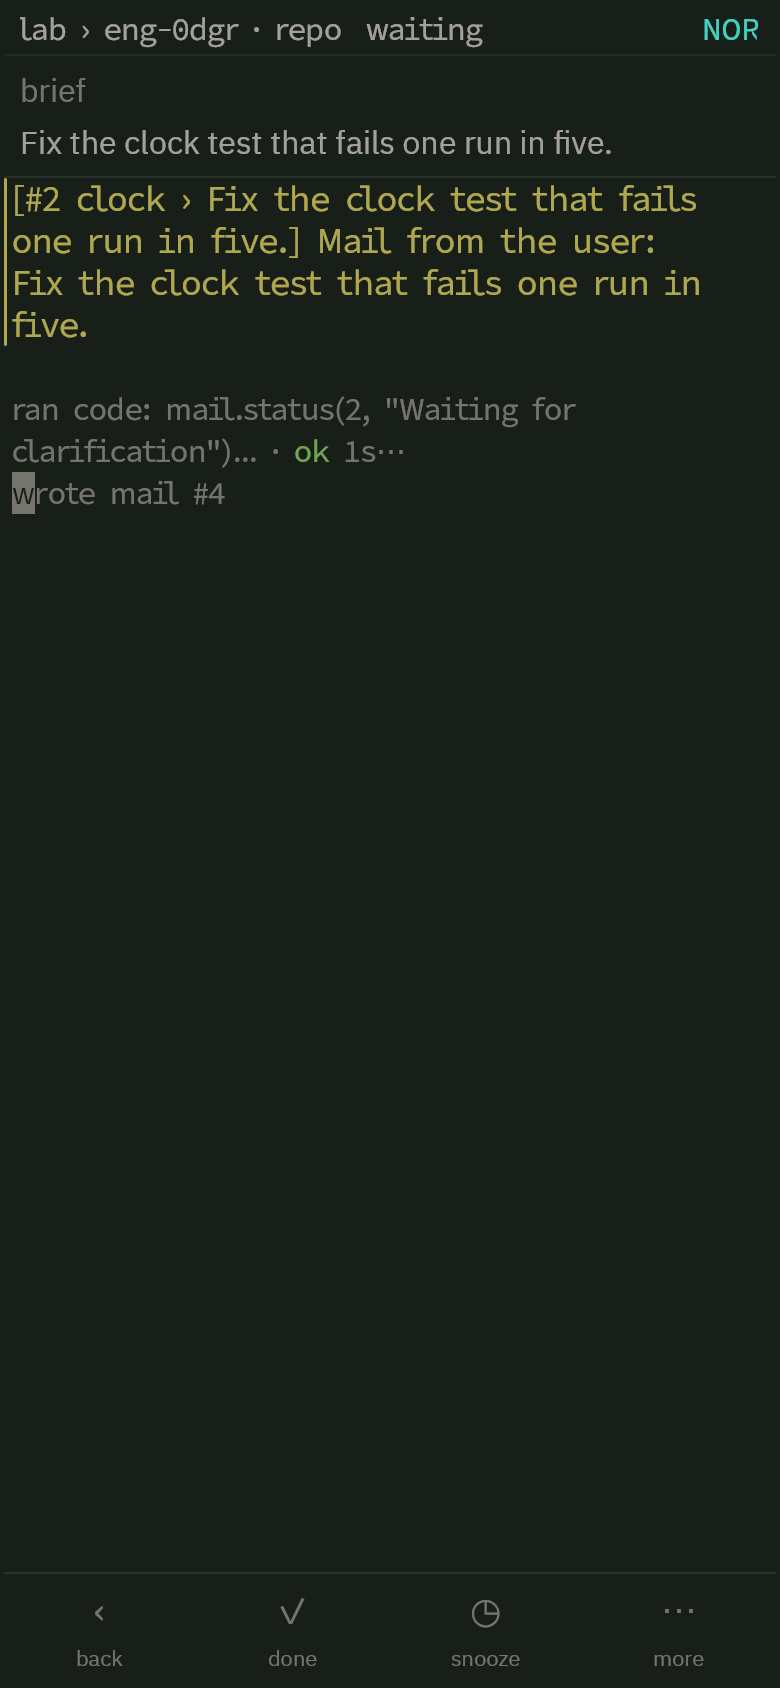
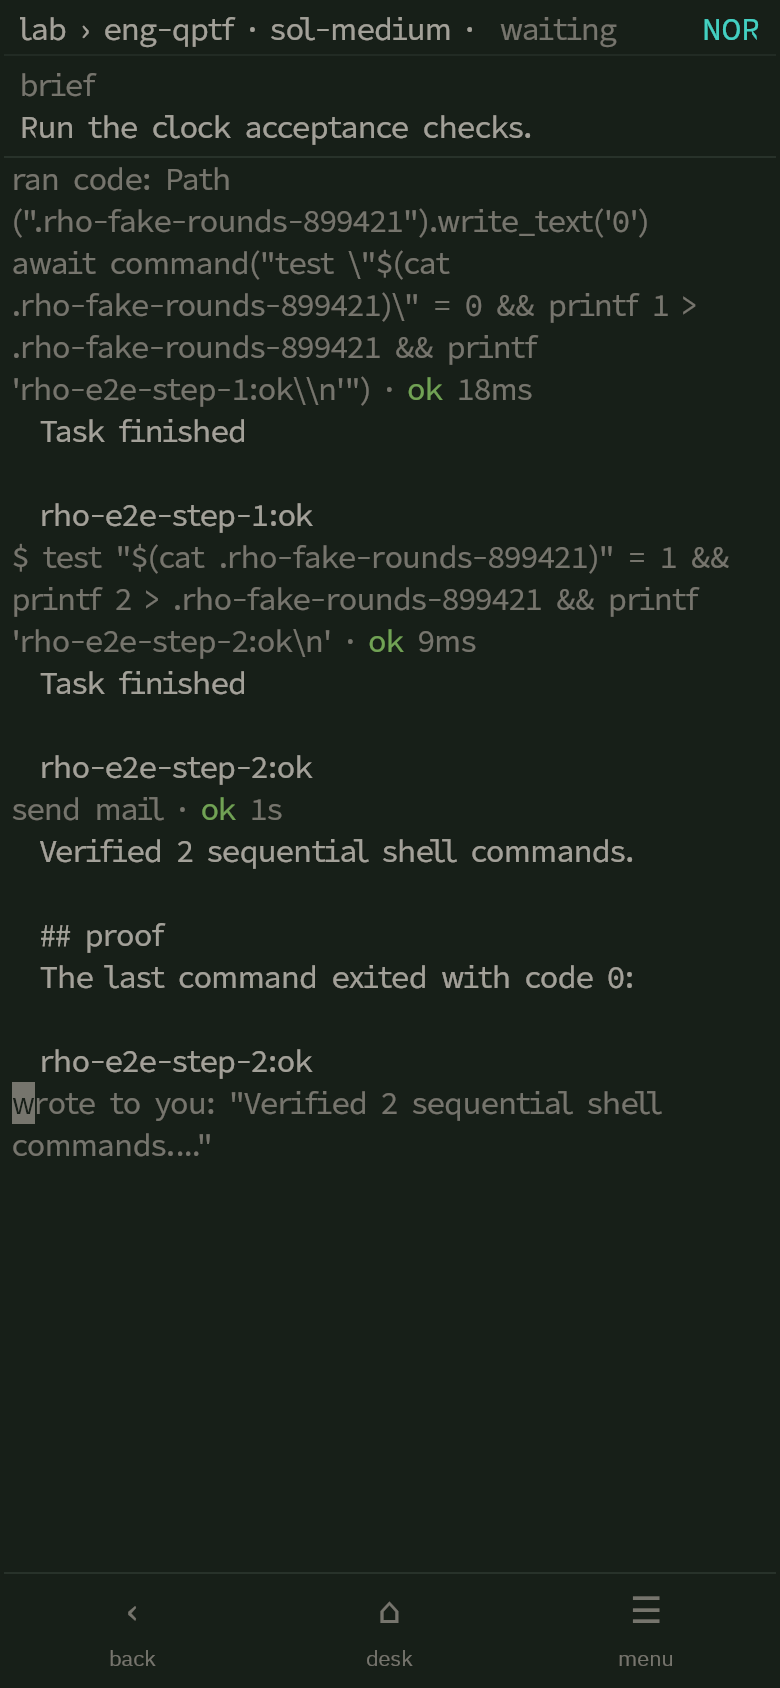
Retry a failed agent launch on fresh user mail, not replay
Rho-Agent-Id: tifv8o419krv

diff --git a/agent-host/rho-agent-host/tests/mail.rs b/agent-host/rho-agent-host/tests/mail.rs
@@ -563,7 +563,7 @@ async fn run_startup_failure(paths: &RuntimePaths, root: &Path) -> anyhow::Resul
         "{text}"
     );
     assert!(
-        text.contains("Replies are saved. Change its runtime or start another agent."),
+        text.contains("Reply to retry, change its runtime, or start another agent."),
         "{text}"
     );
     assert!(!text.contains(root.to_str().unwrap()), "{text}");
@@ -585,13 +585,44 @@ async fn run_startup_failure(paths: &RuntimePaths, root: &Path) -> anyhow::Resul
         )
         .await?;
         replies.push(reply);
+        wait_for_mail(&mut stream, |row| {
+            matches!(row.event, ChatEvent::Posted {
+                from: Address::System { agent: stopped, stop: Stop::Failed, .. },
+                parent: Some(parent), ..
+            } if parent == thread && stopped == agent)
+        })
+        .await?;
     }
 
-    // The hold is durable, not just a flag on the running worker. A reply
-    // or a host-side restart must not produce another failed attempt.
+    // Replaying the same saved mail must not retry by itself.
     call(paths, RestartWorkset { agent }).await?;
+    tokio::time::sleep(Duration::from_millis(400)).await;
+    let log_before_reply = call(
+        paths,
+        AgentLog {
+            agent,
+            from: Wpos::ZERO,
+        },
+    )
+    .await?;
+    assert_eq!(
+        log_before_reply
+            .rows
+            .iter()
+            .filter(|(_, row)| matches!(row, LogEvent::Stopped { .. }))
+            .count(),
+        3
+    );
+
     let later = post(paths, 74, Some(thread), "Actually check it twice.").await?;
     replies.push(later);
+    wait_for_mail(&mut stream, |row| {
+        matches!(row.event, ChatEvent::Posted {
+            from: Address::System { agent: stopped, stop: Stop::Failed, .. },
+            parent: Some(parent), ..
+        } if parent == thread && stopped == agent)
+    })
+    .await?;
     let switched = call(
         paths,
         Eval {
@@ -625,8 +656,8 @@ async fn run_startup_failure(paths: &RuntimePaths, root: &Path) -> anyhow::Resul
             .filter(|(_, row)| matches!(row, LogEvent::Stopped { .. }))
             .count();
         assert_eq!(
-            failed, 1,
-            "replies attempted another launch: {:?}",
+            failed, 4,
+            "each new reply, but no replay, should attempt another launch: {:?}",
             log.rows
         );
         let delivered = log
@@ -665,7 +696,7 @@ async fn run_startup_failure(paths: &RuntimePaths, root: &Path) -> anyhow::Resul
             .is_some_and(|error| error.contains("never sent a request"))
     );
     Ok(format!(
-        "one failed launch #{}; three saved replies survived restart and reached native in order; later cross-kind switch refused",
+        "failed launch #{}; three new replies retried, restart alone did not, and all mail reached native in order; later cross-kind switch refused",
         stop.id.0.0
     ))
 }

diff --git a/agent-host/rho-agent/src/entry.rs b/agent-host/rho-agent/src/entry.rs
@@ -1,7 +1,7 @@
 //! What a request says and what happens to an agent, in the words both
 //! runtimes share.
 
-use rho_agent_types::{ContentPart, Role};
+use rho_agent_types::{ChatSeq, ContentPart, Role};
 use senax_encoder::{Decode, Encode};
 
 use crate::inference::{Carry, Image, Usage};
@@ -47,7 +47,7 @@ pub enum Notice {
     /// The user cancelled what was in flight: a request, a retry, or a
     /// cell.
     Cancelled,
-    /// The runtime could not launch; mail waits for a change of runtime.
+    /// The runtime could not launch; another reply can retry it.
     StartupFailed(StartupFailure),
     /// The provider completed a response after a stuck retry streak.
     Recovered(rho_agent_types::UnixMs),
@@ -58,6 +58,10 @@ pub struct StartupFailure {
     pub error: String,
     pub since: rho_agent_types::UnixMs,
     pub runtime: crate::record::Runtime,
+    /// User mail included in this launch attempt; replaying it after a
+    /// restart cannot trigger another launch.
+    #[senax(default)]
+    pub tried_through: Option<ChatSeq>,
 }
 
 /// What one request says, by role.
@@ -301,6 +305,39 @@ impl ResponseUsage {
 
 #[cfg(test)]
 mod tests {
+    #[test]
+    fn legacy_launch_failure_keeps_its_error_without_a_reply_boundary() {
+        #[derive(Debug, Encode, Decode)]
+        struct OldStartupFailure {
+            error: String,
+            since: rho_agent_types::UnixMs,
+            runtime: crate::record::Runtime,
+        }
+        let old = OldStartupFailure {
+            error: "broken settings".into(),
+            since: rho_agent_types::UnixMs(42),
+            runtime: crate::record::Runtime::Claude {
+                model: rho_claude::Model::Opus,
+                effort: rho_claude::Effort::High,
+                session_id: uuid::Uuid::nil(),
+            },
+        };
+        let mut encoded = senax_encoder::encode(&old).unwrap();
+        let read: StartupFailure = senax_encoder::decode(&mut encoded).unwrap();
+        assert_eq!(read.error, old.error);
+        assert_eq!(read.since, old.since);
+        assert_eq!(read.tried_through, None);
+
+        let mut encoded = senax_encoder::encode(&StartupFailure {
+            tried_through: Some(ChatSeq(713)),
+            ..read
+        })
+        .unwrap();
+        let older_reader: OldStartupFailure = senax_encoder::decode(&mut encoded).unwrap();
+        assert_eq!(older_reader.error, old.error);
+        assert_eq!(older_reader.runtime, old.runtime);
+    }
+
     use super::*;
 
     fn text(text: &str) -> Vec<ContentPart> {

diff --git a/agent-host/rho-agent/src/worker/claude.rs b/agent-host/rho-agent/src/worker/claude.rs
@@ -668,9 +668,17 @@ impl ClaudeLoop {
                     // The person's input ends a wait it answers.
                     self.awaiting = false;
                 }
-                if self.head.startup_failure.is_some() {
-                    self.waiting.quiet();
-                    return Ok(());
+                if let Some(failure) = &self.head.startup_failure {
+                    if role != Role::User
+                        || message.is_none_or(|id| {
+                            failure.tried_through.is_some_and(|through| id.0 <= through)
+                        })
+                    {
+                        self.waiting.quiet();
+                        return Ok(());
+                    }
+                    self.head.startup_failure = None;
+                    self.set_kind(InferenceState::Idle);
                 }
                 if role != Role::System
                     && let Some(python) = &mut self.python
@@ -2045,6 +2053,7 @@ impl ClaudeLoop {
             error: format!("{error:#}"),
             since: UnixMs::now(),
             runtime: self.head.spec.runtime.clone(),
+            tried_through: self.waiting.newest_user_mail().map(|id| id.0),
         };
         self.notice(Notice::StartupFailed(failure.clone())).await?;
         if let Err(error) = self.close_process().await {

diff --git a/agent-host/rho-agent/src/host/pool/mail.rs b/agent-host/rho-agent/src/host/pool/mail.rs
@@ -587,7 +587,7 @@ impl StopTail {
         let reason = stop_line(&reason, occurrences);
         let mut body = format!("{} · {reason}", stop.word());
         if failed_to_start {
-            body.push_str("\n\nThis agent cannot start. Replies are saved. Change its runtime or start another agent.");
+            body.push_str("\n\nThis agent cannot start. Reply to retry, change its runtime, or start another agent.");
         }
         if !evidence.is_empty() {
             body.push_str("\n\nLast transcript lines:");
@@ -628,7 +628,7 @@ fn stop_line(line: &str, count: usize) -> String {
 
 #[cfg(test)]
 mod tests {
-    use rho_agent_types::{AgentIdDomain, ChatSeq};
+    use rho_agent_types::ChatSeq;
 
     use super::*;
 
@@ -663,7 +663,7 @@ mod tests {
         tail.push(error);
         assert_eq!(
             tail.body(Stop::Failed, error, true),
-            "failed · capture Claude mount ‹host path›: Operation not permitted\n\nThis agent cannot start. Replies are saved. Change its runtime or start another agent."
+            "failed · capture Claude mount ‹host path›: Operation not permitted\n\nThis agent cannot start. Reply to retry, change its runtime, or start another agent."
         );
     }
 

diff --git a/agent-host/rho-agent/src/worker/shared/waiting.rs b/agent-host/rho-agent/src/worker/shared/waiting.rs
@@ -63,6 +63,14 @@ impl Waiting {
             .min()
     }
 
+    pub fn newest_user_mail(&self) -> Option<MessageId> {
+        self.held
+            .iter()
+            .filter(|held| held.input.role == Role::User)
+            .filter_map(|held| held.input.message)
+            .max()
+    }
+
     /// Nothing waits, not even what the model was told of.
     pub fn is_empty(&self) -> bool {
         self.output.is_empty() && self.held.is_empty()

diff --git a/agent-host/rho-agent/src/store.rs b/agent-host/rho-agent/src/store.rs
@@ -128,6 +128,7 @@ impl AgentHead {
                 self.startup_failure = Some(failure.clone())
             }
             Event::Request { inputs, .. } => {
+                self.startup_failure = None;
                 let newest = inputs.iter().filter_map(|input| input.message).max();
                 if let Some(newest) = newest {
                     self.delivered = self.delivered.max(newest.0);

diff --git a/agent-host/rho-agent/src/ipc/protocol.rs b/agent-host/rho-agent/src/ipc/protocol.rs
@@ -8,7 +8,7 @@ use crate::log::AgentUsageBucket;
 use crate::record::Record;
 use crate::store::{AgentHead, NativeCursor};
 
-pub(crate) const VERSION: u32 = 34;
+pub(crate) const VERSION: u32 = 35;
 
 /// The worker's second connection, inherited at this fd. It carries only the
 /// requests the worker makes of the agent host and their answers, so a host

diff --git a/product/agents.md b/product/agents.md
@@ -21,13 +21,12 @@ steps:
 1. the user opens the project's mail about the stop, `deal.Clear what waits`
 2. the user reads the reason, `mail.Answer a mail`
    - when they need more, the user goes into the transcript, `Look into the work`
-3. the user replies with what the project should do next, `mail.Answer a mail`
+3. the user replies with what the project should do next, `mail.Answer a mail`; a new reply retries an agent that could not launch
 4. the user gets the result after the work carries on, `deal.Clear what waits`
 done when: the user sees the project's result.
 day: Keep the work moving.
 
 ## concept Agent
-status: the thread keeps replies to an agent that cannot launch, but they do not wake it. The user changes its runtime or starts another agent to carry on.
 purpose: do a piece of the user's work on a host, and let the user inspect what was done if needed.
 principle: an agent works from the user's mail about a flaky test. When the result arrives from the project, the user goes from the thread to the transcript to see what the agent ran.
 sees: its name, which is its workset's name with its short code, such as `manifold-release-and-bridge (eng-kjhi)`, or the short code alone, such as `eng-q9tz`; its host; its folder on the host, such as `/src/rho`; what it is doing: `working`, `waiting`, `idle`, `failed`, `retrying`, or `archived`.

diff --git a/product/mail.md b/product/mail.md
@@ -11,7 +11,6 @@ costs: the user opens the transcript to see which agent did what.
 An agent writes to another agent by mail in a thread under the project; the user can read it one level down and never gets a `deal.Card` from it.
 
 ## bet The project asks by mail, even when an agent stops
-status: when an agent cannot launch, its stop mail explains how to get the work going. Further replies are saved without retrying the failed launch.
 instead of: attention coming from a mixture of mentions from named agents and notices about their state.
 serves: Know what wants them, and where they were.
 because: the user only needs what asks for them or returns a result, not each agent's progress. A stop is another mail to answer, not another kind of thing to watch.
